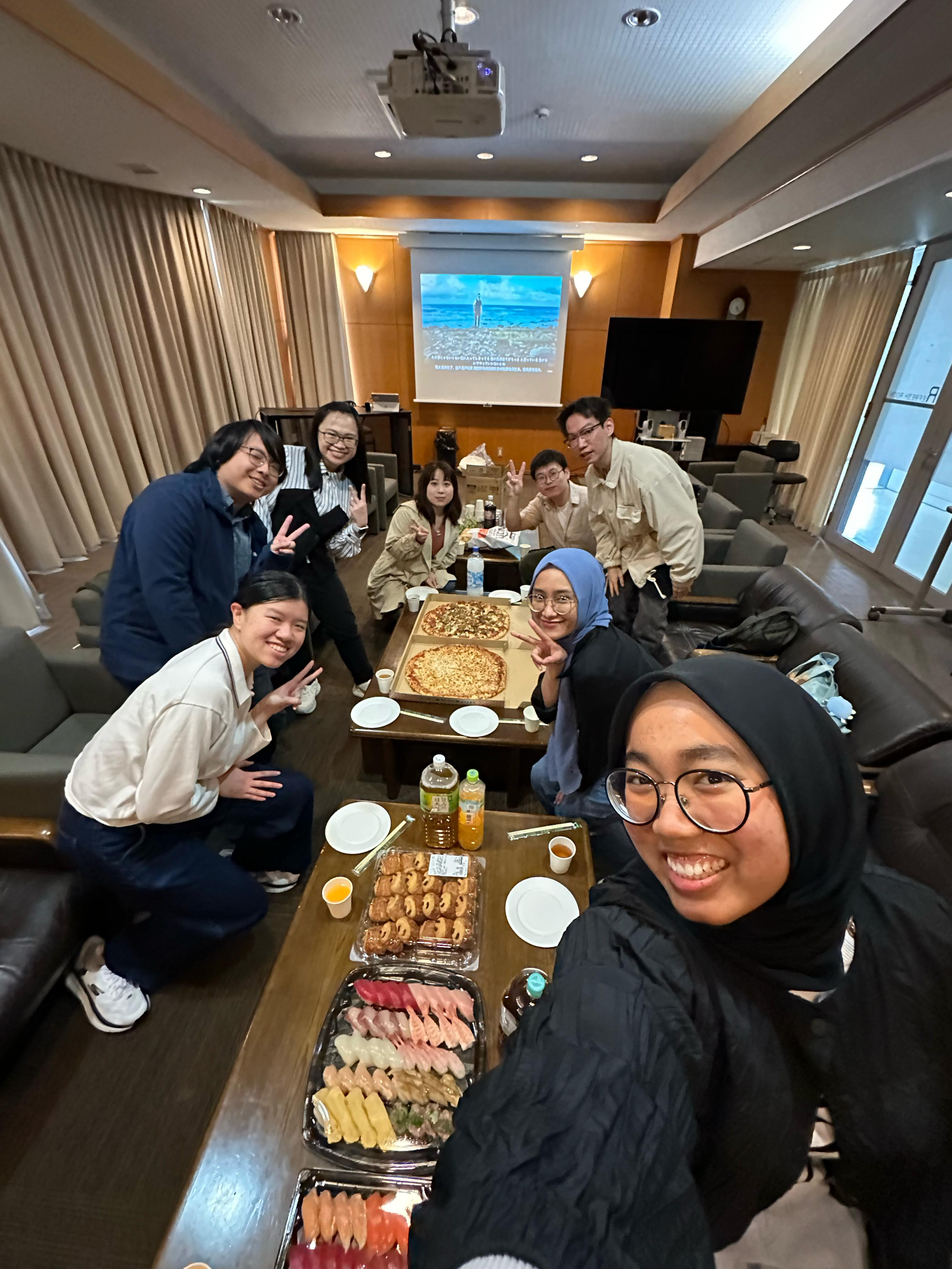
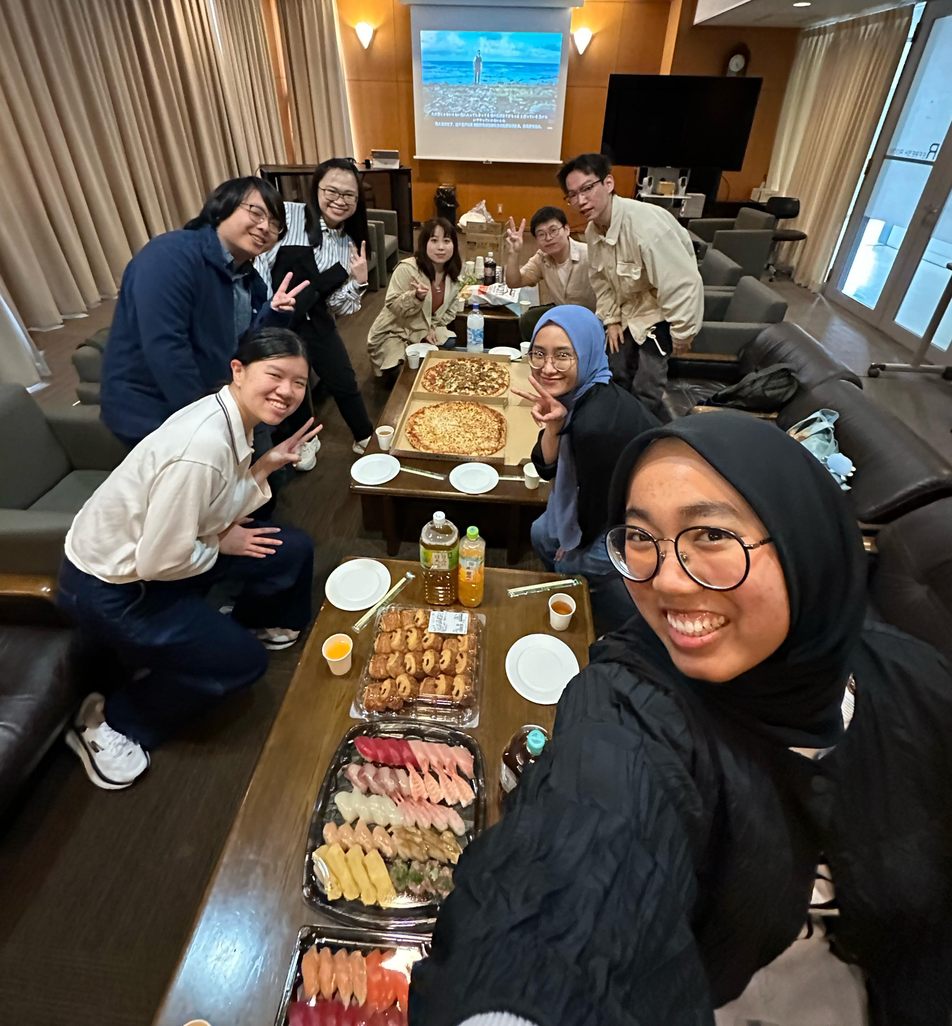
update image

diff --git a/news/index.html b/news/index.html
@@ -124,7 +124,7 @@
 
         <div class="row p-0">
           <div class="col-sm-6">
-            <img width="80%" src="/assets/img/news/20250525/welcomeparty_may2025.jpeg"/>
+            <img width="70%" src="/assets/img/news/20250525/welcomeparty_may2025.jpeg"/>
           </div>
         </div>
       </div>
